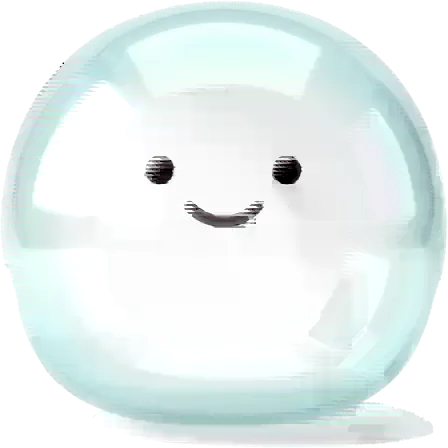
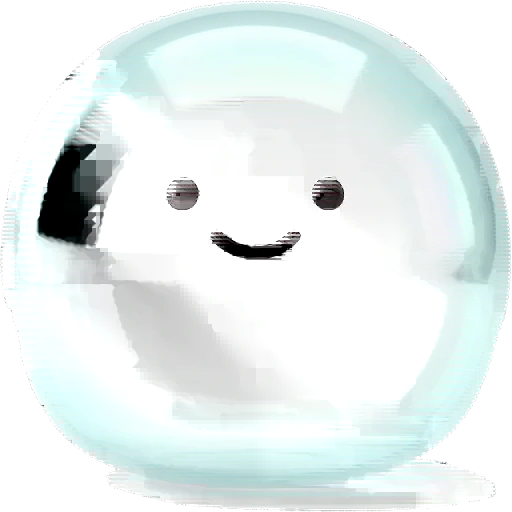
fix(pop-zen): sharp/crisp real assets — quality + resolution + no blur
Leandro: the gamified (CSS) UI looked crisp but the REAL photographic
bubble-wrap (home island, teaser, gameplay board) looked blurry/low-quality.

Root causes found (measured in-browser):
1. Gameplay board had an intentional filter: blur(1px) — literally blurring
   the real bubble wrap. Removed it (foreground bubbles separate via their
   own shadows).
2. WebP was over-compressed (islands were ~42KB at q90) which mushed the fine
   bubble-wrap texture; a lossless test proved compression was the culprit.
   -> re-encoded the detailed real assets at WebP q95 + a mild sharpen.
3. Assets were sized for ~DPR2; on a real DPR3 phone they were upscaled/soft.
   -> bumped resolution: island-trees 640->900, island-hex 512->640,
   mascot 448->512, gameplay bubbles + board re-encoded at q95.

Decoded-resident stays within budget (~11MB play / ~10MB home, <15MB cap);
bundled real assets ~1MB total. Render-layer only, 39 tests green, tsc clean.
Verified crisp in browser (board + island + teaser).

diff --git a/apps/pop-zen/src/routes/play.tsx b/apps/pop-zen/src/routes/play.tsx
@@ -953,10 +953,10 @@ function PlayPage() {
           }}
         >
           {/* v1.3 (Project C) playfield: a REAL continuous bubble-wrap sheet,
-              deep-teal tinted (tint + darkening baked into the asset) so the clear
-              poppable bubbles read with contrast. Shown as one image (cover, no
-              tiling); a faint 1px blur keeps the static backdrop behind the crisp
-              poppable bubbles. Inset past the clip so cover has no soft edge. */}
+              soft aqua-teal tinted (baked into the asset) so the clear poppable
+              bubbles read with contrast. Shown crisply as one image (cover, no
+              tiling, NO blur — the foreground bubbles separate via their own
+              shadows). Inset past the clip so cover has no soft edge. */}
           <div
             aria-hidden
             className="pointer-events-none absolute"
@@ -967,7 +967,6 @@ function PlayPage() {
               backgroundRepeat: "no-repeat",
               backgroundPosition: "center",
               opacity: 1,
-              filter: "blur(1px)",
             }}
           />
           {bubbles.map((b) => (
